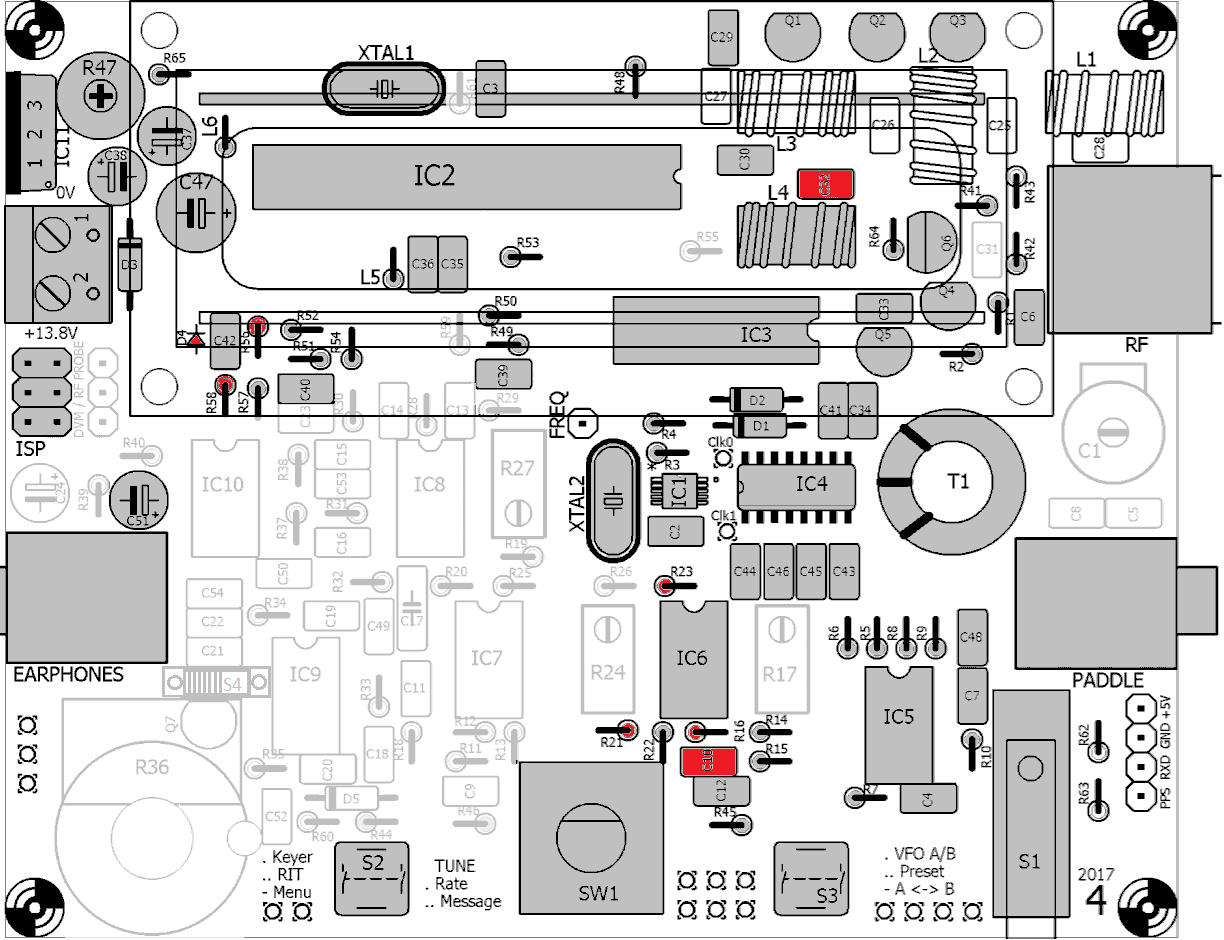
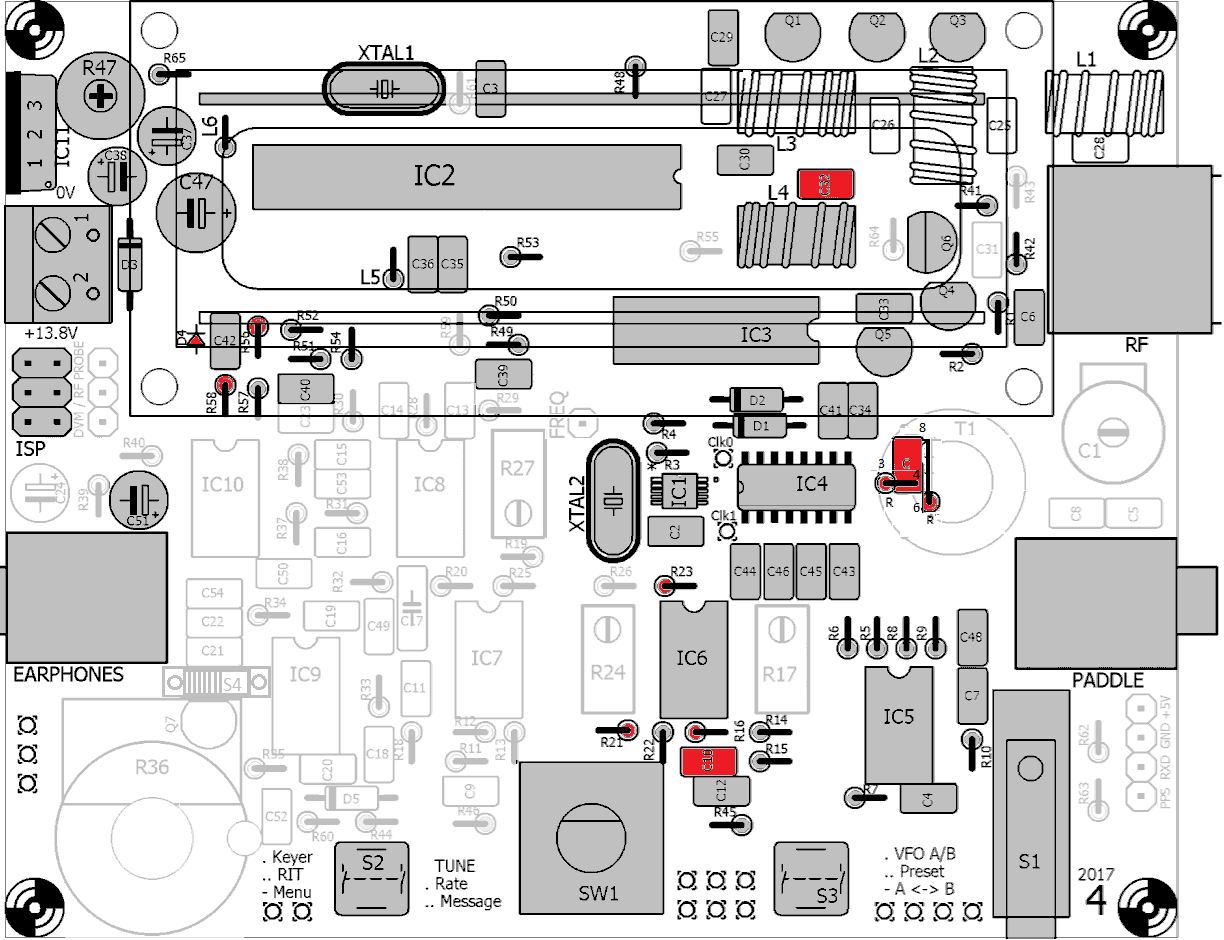
Added schematic, layout and description for T1 replacement. Added experimental menu.

diff --git a/README.md b/README.md
@@ -127,7 +127,7 @@ The following performance measurements were made with QCX-SSB R1.01, a modified 
 
 
 ### Notes:
-1. <a name="note1"/>To support multi-band operation, the RX BPF can be omitted (C1,C5,C8, secondary 3 of T1), and a switchable LPF-bank could replace the existing LPF C25-28,L1-L3 and matching network C29-30,L4. The Arduino sketch could be extended to switch the filter-bank. When using external filters the on-board LPF may be bypassed with a wire.
+1. <a name="note1"/>To support multi-band operation, the RX BPF can be omitted (C1,C5,C8, secondary 3 of T1). To improve RX sensitivity on higher bands, T1 and R64 should be removed and on the original wire-endings of T1 (see [original Assembly instruction] chapter 3.56 for PC Board pattern) the following components should be installed: resistor 1K over 6-8 and 3-4; capacitor 10nF over 4-8. A switchable LPF-bank could replace the existing LPF C25-28,L1-L3, or a wire may bypass if external LPFs are present; the matching network C30,L4 should be set to 30pF and 1uH (16 turns). A switchable filter-bank could potentialy be controlled via I2C I/O port.
 2. <a name="note2"/>The QCX-SSB firmware can be uploaded to ATMEGA328P chip placed in the QCX via ISP programming on an Arduino Uno board. To do so, istall an [Arduino] environment, connect an Arduino Uno board to PC, upload this [ArduinoISP] sketch to Uno, install a new ATMEGA328P chip in QCX, connect Arduino Uno to QCX via [ISP jumper] wiring, power on QCX, in Arduino select "Tools > Programmer > Arduino as ISP", select "Tools > Board > Arduino/Genuino Uno", select "Tools > Port > /dev/ttyUSB0 or ttyACM0", select "Tools > Burn Bootloader", upload [QCX-SSB Sketch] by opening and selecting "Sketch > Upload Using Programmer". Once upload succeeds the LCD should display "QCX-SSB". Make sure that the Microphone is not connected during programming.
 3. <a name="note3"/>The occupied SSB bandwidth can be further reduced by restricting the maximum phase change (set MAX_DP to half a unit-circle _UA/2 (equivalent to 180 degrees)). The sensitivity of the VOX switching can be set with parameter VOX_THRESHOLD. Audio-input can be attenuated by increasing parameter MIC_ATTEN (6dB per step).
 4. <a name="note4"/>To implement the SDR stage, the 17 component changes of installation step 1 are easiest to be implemented on a newly to be build QCX. Alternatively, on an already built QCX it is easier to bypass the CW filter (see <sup>[note 4](#note4)</sup>), this maintains the hardware compatibility with the original QCX firmware. Optionally this can be extended with a Arduino based DSP filter stage (see <sup>[note 5](#note5)</sup>).
@@ -203,4 +203,5 @@ The following performance measurements were made with QCX-SSB R1.01, a modified 
 
 [phase shift in the SI5351 clocks]: https://www.silabs.com/community/timing/forum.topic.html/difficulty_settingp-LchG
 
+[original Assembly instruction]: https://www.qrp-labs.com/images/qcx/assembly_A4_Rev_4b.pdf
 
